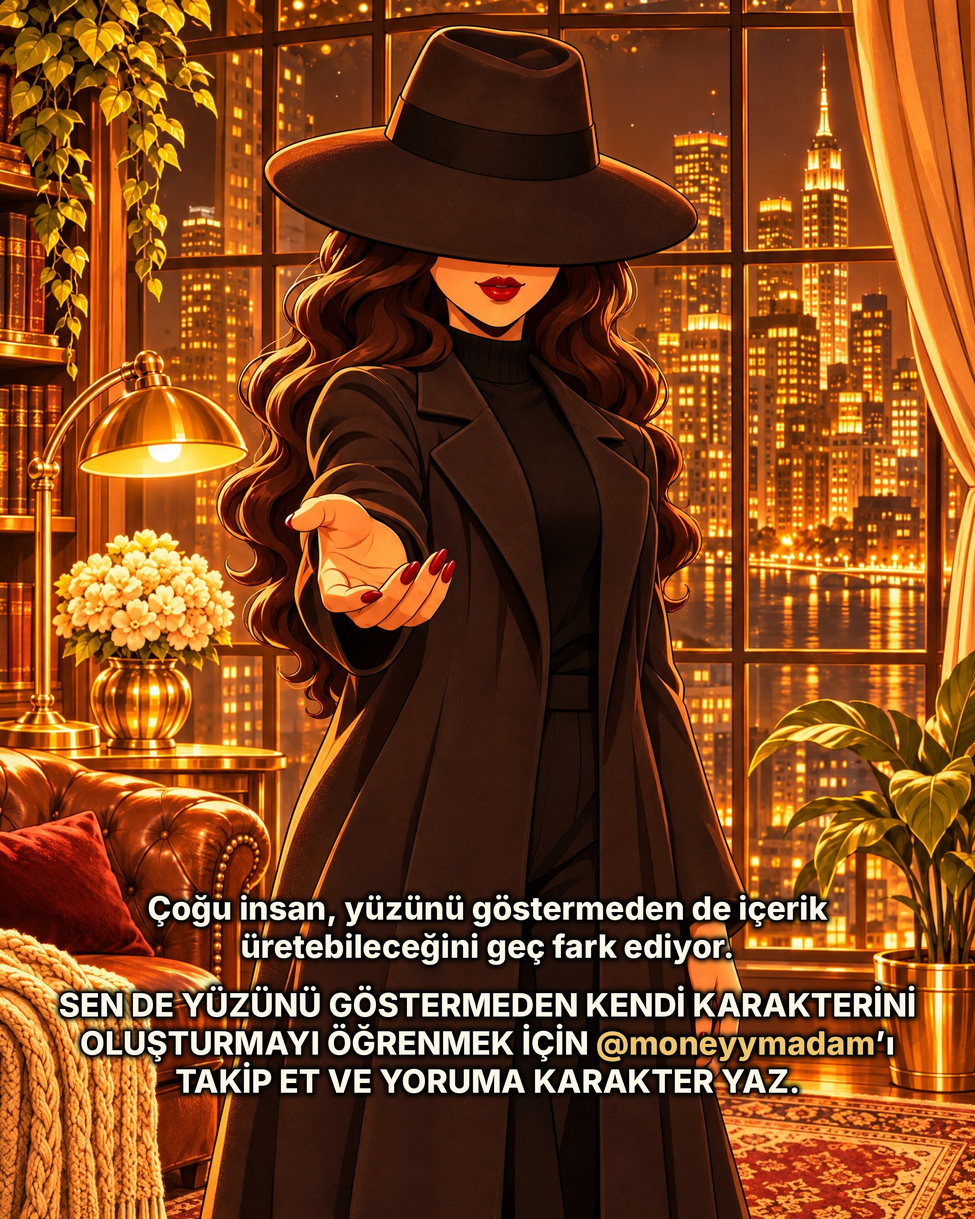
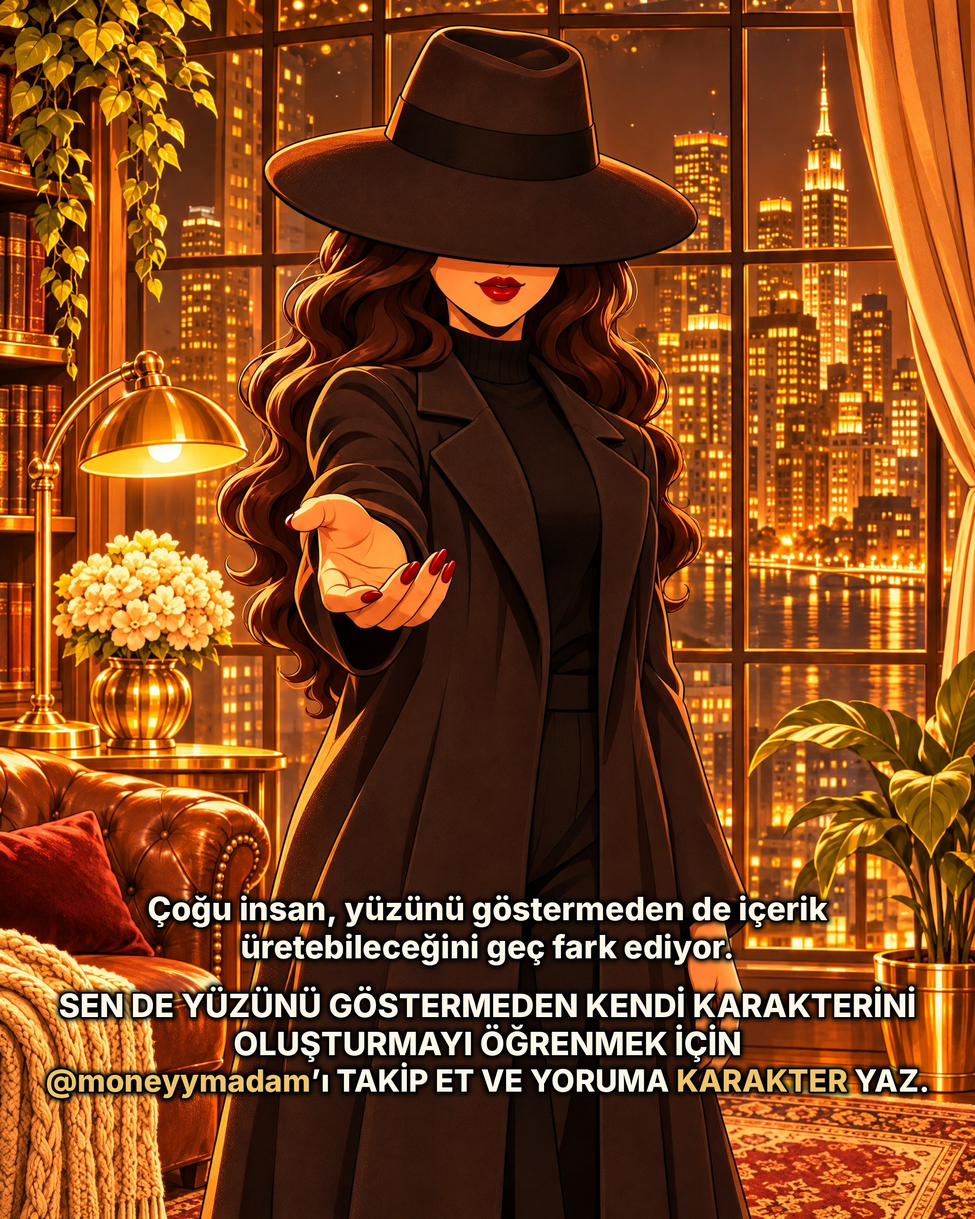
Post6 son slayt: takip et satırı alta alındı, KARAKTER altın renkte
Claude-Session: https://claude.ai/code/session_01DJnELUg2datGduMzoawH2g

Changed region(s): [[0.0312, 0.8125, 0.9688, 0.9062], [0.7188, 0.75, 0.75, 0.7812]]

diff --git a/dark-money/tools/post6_yazi.py b/dark-money/tools/post6_yazi.py
@@ -89,10 +89,16 @@ def rich_wrap(words,mw,m):
 im=Image.open(f"{SRC}/sayfa6.jpg").convert("RGB"); W,H=im.size; S=int(H*0.0265); m=ImageDraw.Draw(im)
 P1="Çoğu insan, yüzünü göstermeden de içerik üretebileceğini geç fark ediyor.".split()
 P2_pre=up("Sen de yüzünü göstermeden kendi karakterini oluşturmayı öğrenmek için").split()
-P2_post=up("takip et ve yoruma KARAKTER yaz.").split()
 w1=[[(w,CREAM,S)] for w in P1]
-w2=[[(w,CREAM,S)] for w in P2_pre]+[[("@moneyymadam",GOLD,S),("’ı",CREAM,S)]]+[[(w,CREAM,S)] for w in [x.replace("TAKİP","TAKİP") for x in P2_post]]
-L1=rich_wrap(w1,W*0.88,m); L2=rich_wrap(w2,W*0.88,m)
-lines=L1+[[("",CREAM,int(S*0.55))]]+L2
+L1=rich_wrap(w1,W*0.88,m)
+L2=rich_wrap([[(w,CREAM,S)] for w in P2_pre],W*0.88,m)
+# son satır: tek satırda  @moneyymadam’ı TAKİP ET VE YORUMA KARAKTER(altın) YAZ.
+S3=S
+while True:
+    last=[("@moneyymadam",GOLD,S3),("’ı",CREAM,S3),(" "+up("takip et ve yoruma")+" ",CREAM,S3),("KARAKTER",GOLD,S3),(" YAZ.",CREAM,S3)]
+    if sum(m.textlength(t,font=ImageFont.truetype(FONT,sz)) for t,_,sz in last)<=W*0.92: break
+    S3-=1
+print("son satır puntosu:",S3,"/",S)
+lines=L1+[[("",CREAM,int(S*0.55))]]+L2+[last]
 im=draw_rich(im,lines,H*0.815)
 im.save(f"{OUT}/sayfa6.jpg",quality=92); print("ok sayfa 6, satır:",len(lines))
